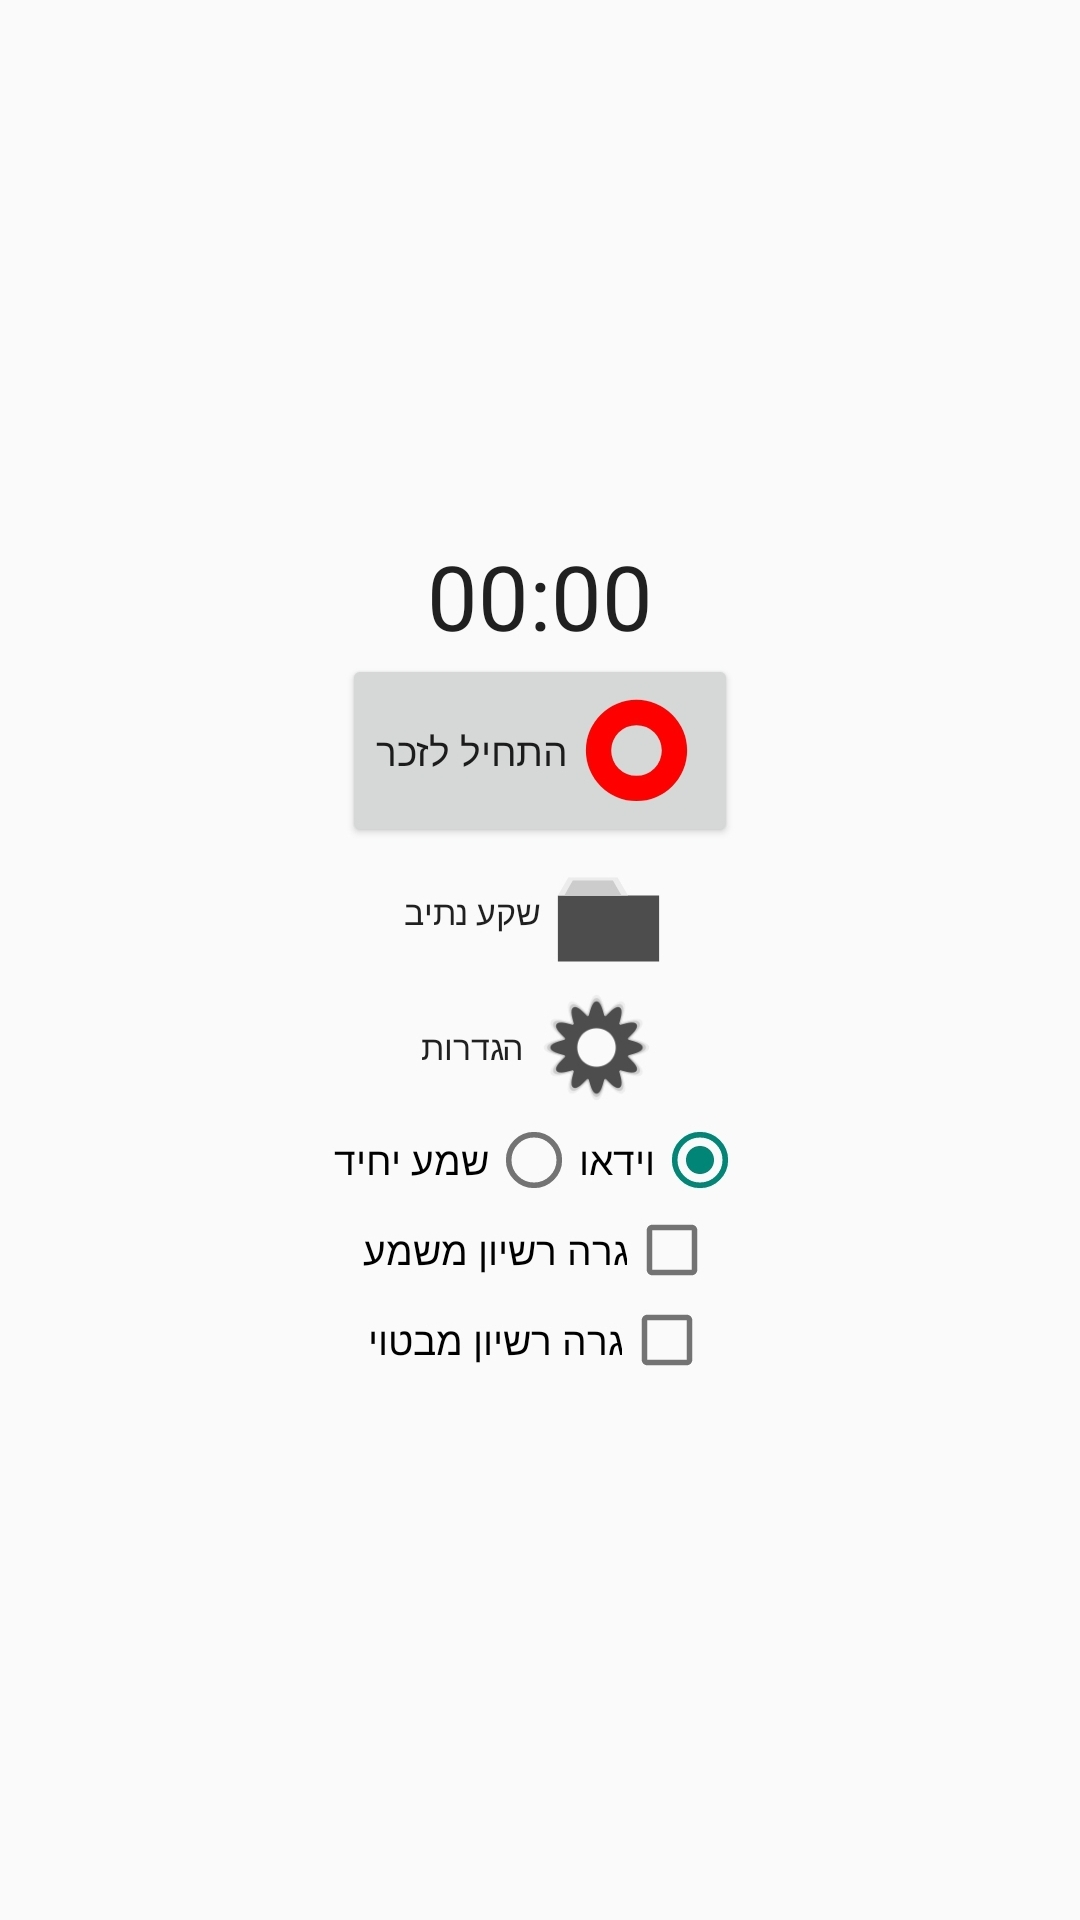
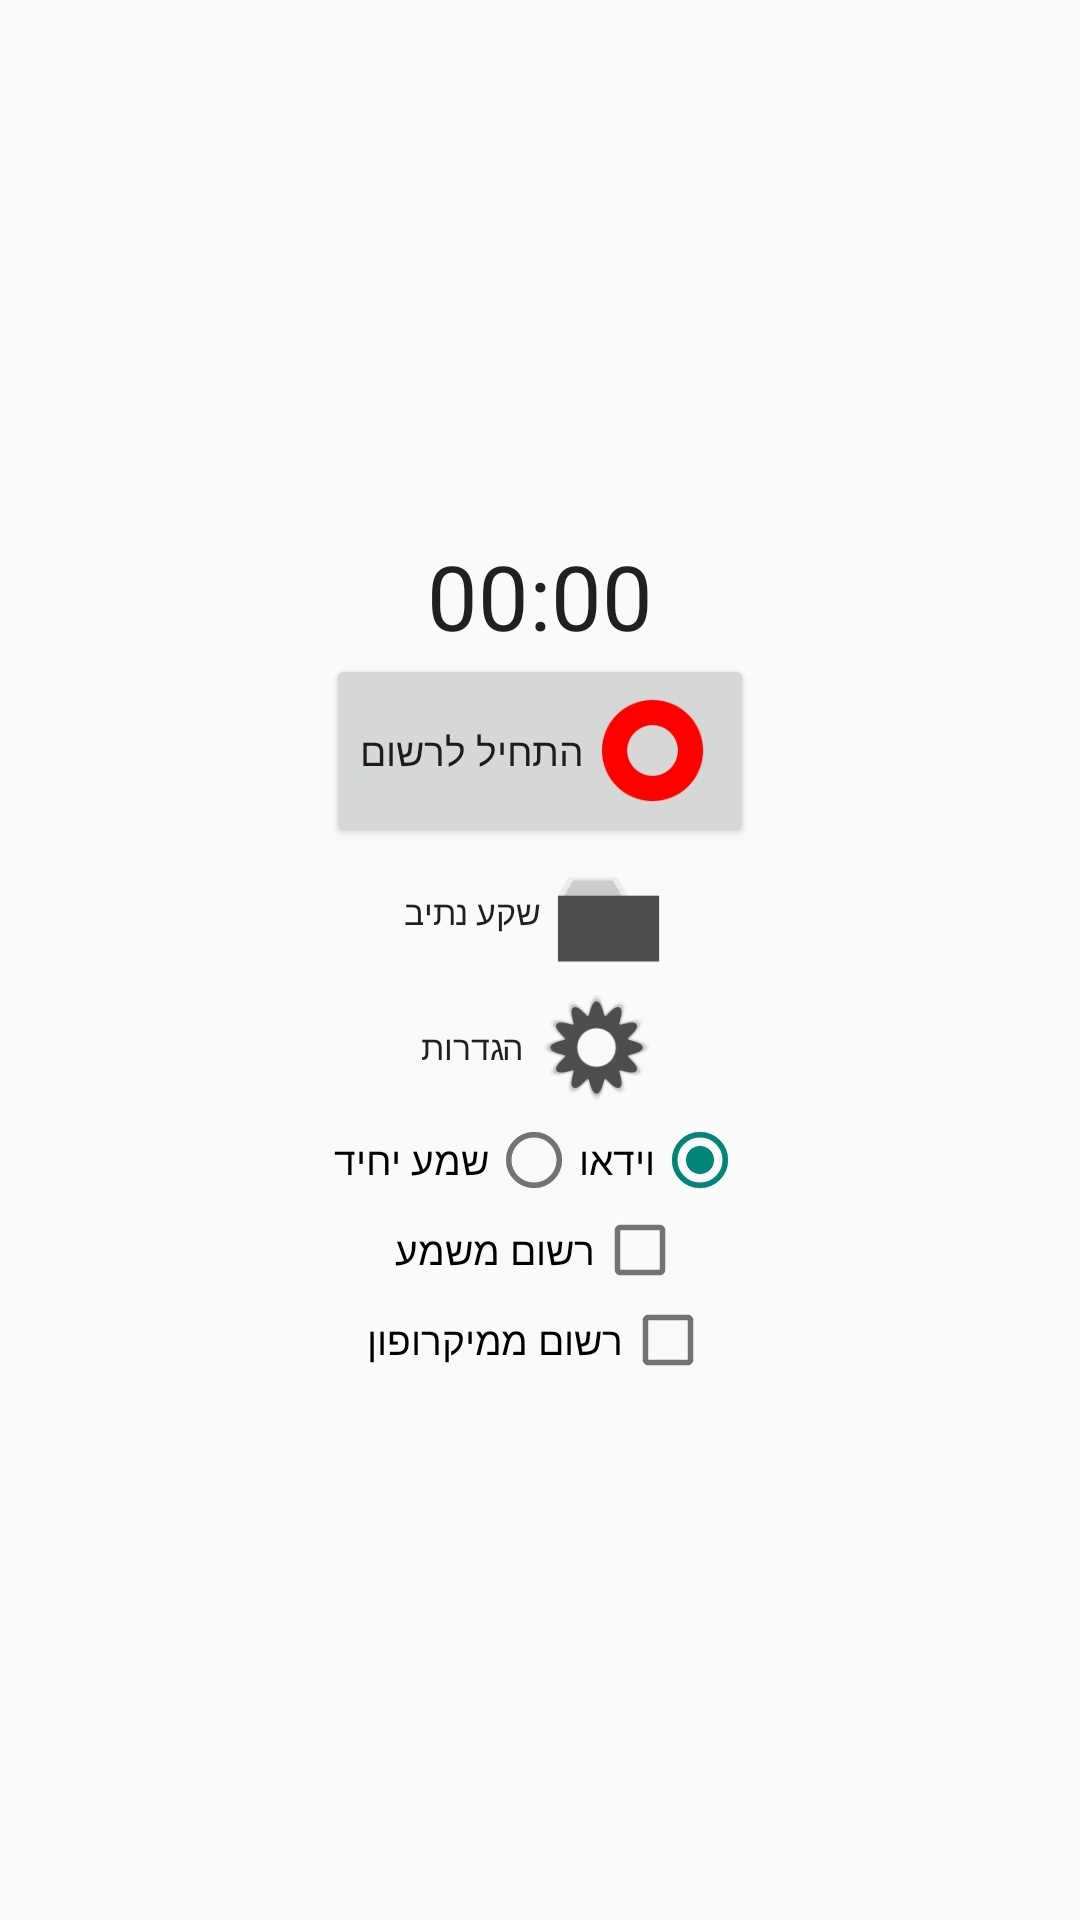
Find a better wording for record in Hebrew

Changed region(s): [[0.3056, 0.3438, 0.7028, 0.4375], [0.3361, 0.625, 0.6417, 0.6875], [0.3361, 0.6875, 0.5806, 0.7188]]

diff --git a/README.he.md b/README.he.md
@@ -3,9 +3,9 @@
 [English](README.md) | עברית
 
 ## סביב
-זכר אנדרואיד מסך.
+רשום אנדרואיד מסך.
 
-לזכר משמע אתה/אתך צריך/צריכה אנדרואיד 10 או יותר מאוחר. לא רוט הכרחי.
+לרשום משמע אתה/אתך צריך/צריכה אנדרואיד 10 או יותר מאוחר. לא רוט הכרחי.
 
 <img src="metadata/iw/images/phoneScreenshots/1.jpg" alt="DroidRec צילם" width="400"/>
 
